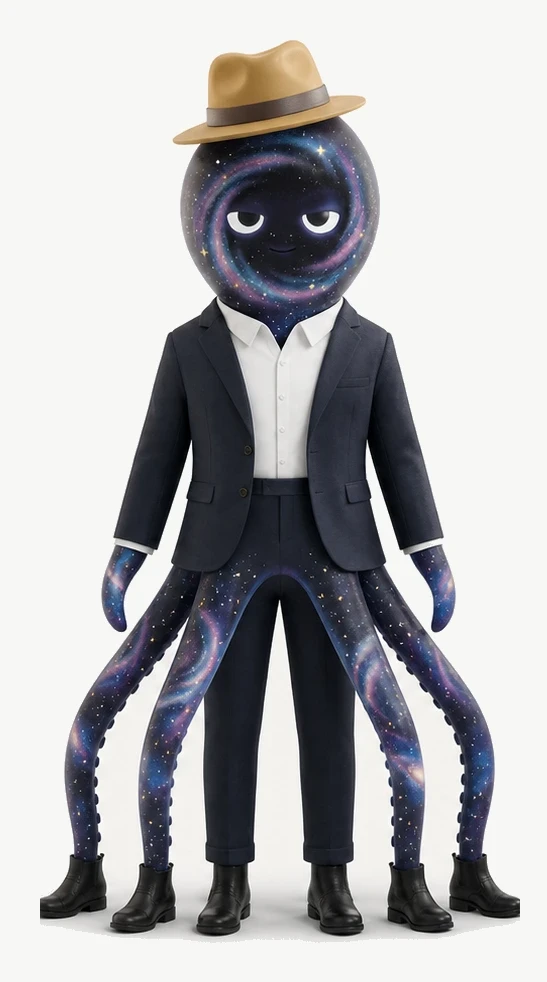
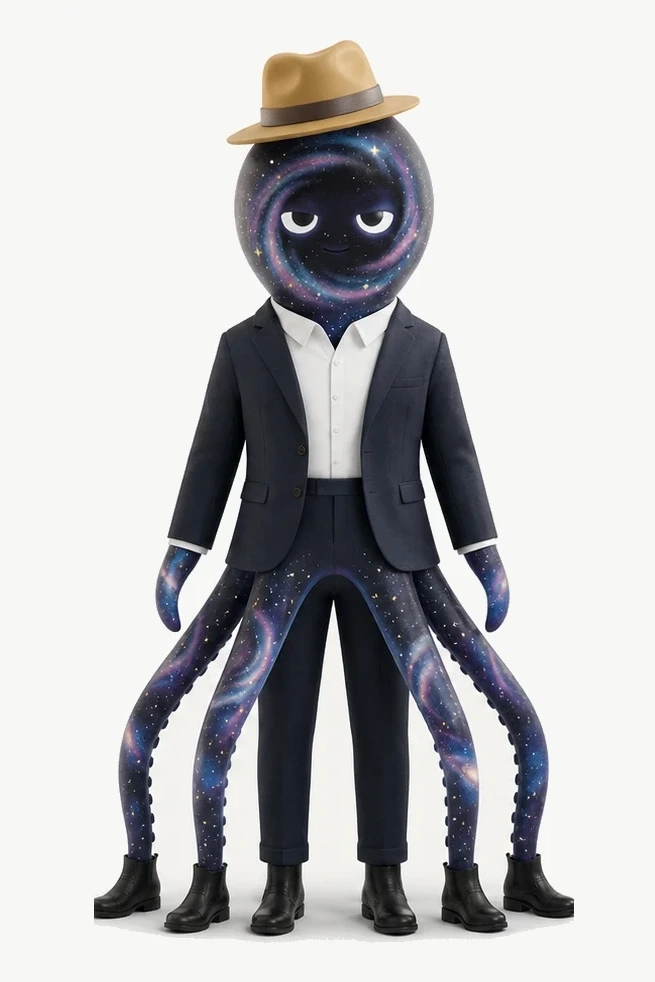
fix: 角色卡補背景成 2:3,並讓 .char-hero 的圖填滿容器
「右邊看到框」的真因:.char-hero 有 1px 邊框,而裡面的 img 沒有 width:100%,
所以用原始尺寸顯示。兩張圖寬度不同(649 vs 547),窄的那張填不滿容器就露出
右邊的邊框,而且哪一張露出來要看視窗寬度,看起來像時好時壞。

兩邊都修:
- 兩張角色卡用各自的底色補成 2:3(取四角中位數,接縫看不出來),
  再把格莉奇那張的純白統一成跟另一張同樣的米白,並排才像一組
- .char-hero img 補上 display:block;width:100%

Changed region(s): [[0.0622, 0.0305, 0.9634, 0.9776]]

diff --git a/style.css b/style.css
@@ -78,6 +78,9 @@ h2::before{content:"";display:inline-block;width:.55em;height:.55em;margin-right
 /* 角色頁 */
 .char-hero{border-radius:14px;overflow:hidden;border:1px solid var(--line);
   box-shadow:0 10px 40px rgba(0,0,0,.5)}
+/* 圖沒有 width:100% 的話會用原始尺寸顯示,比容器窄就會在右邊露出容器的邊框,
+   而且哪一張露出來要看視窗寬度,看起來像時好時壞。 */
+.char-hero img{display:block;width:100%;height:auto}
 .duo{display:grid;grid-template-columns:1fr 1fr;gap:1rem;margin:1.4rem 0}
 .duo .box{background:var(--panel);border:1px solid var(--line);border-radius:12px;padding:1rem 1.2rem}
 .duo .box h3{margin:.1em 0 .5em;font-size:1.02rem;color:var(--pink)}

diff --git a/sw.js b/sw.js
@@ -9,8 +9,8 @@
 /* 版號由 build.py 從清單裡每個檔案的內容算出來,別手改。改殼檔或換圖跑一次
    build.py 就會自己變;要強制所有讀者重來,改 build.py 的 EPOCH。 */
 /* ver:start */
-const SHELL = 'glitchos-shell-v20-678c7b72';
-const ASSET = 'glitchos-asset-v20-ecf2fc43';
+const SHELL = 'glitchos-shell-v20-3c3cfc75';
+const ASSET = 'glitchos-asset-v20-beb14507';
 /* ver:end */
 
 /* 以下兩份清單由 build.py 從 episodes.json 產生,別手改。 */
